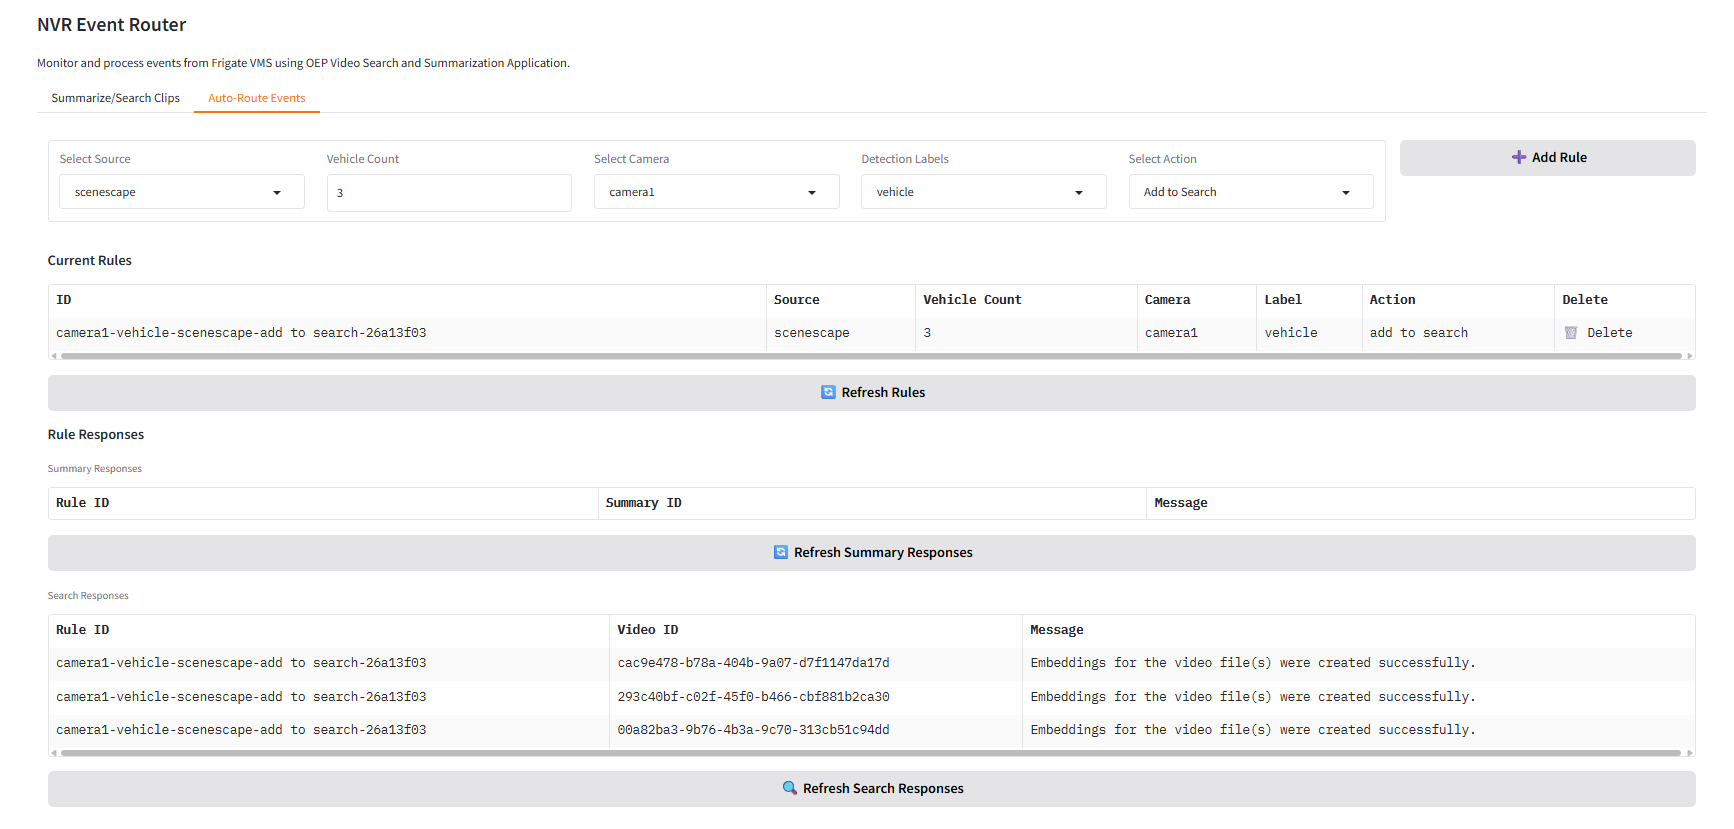
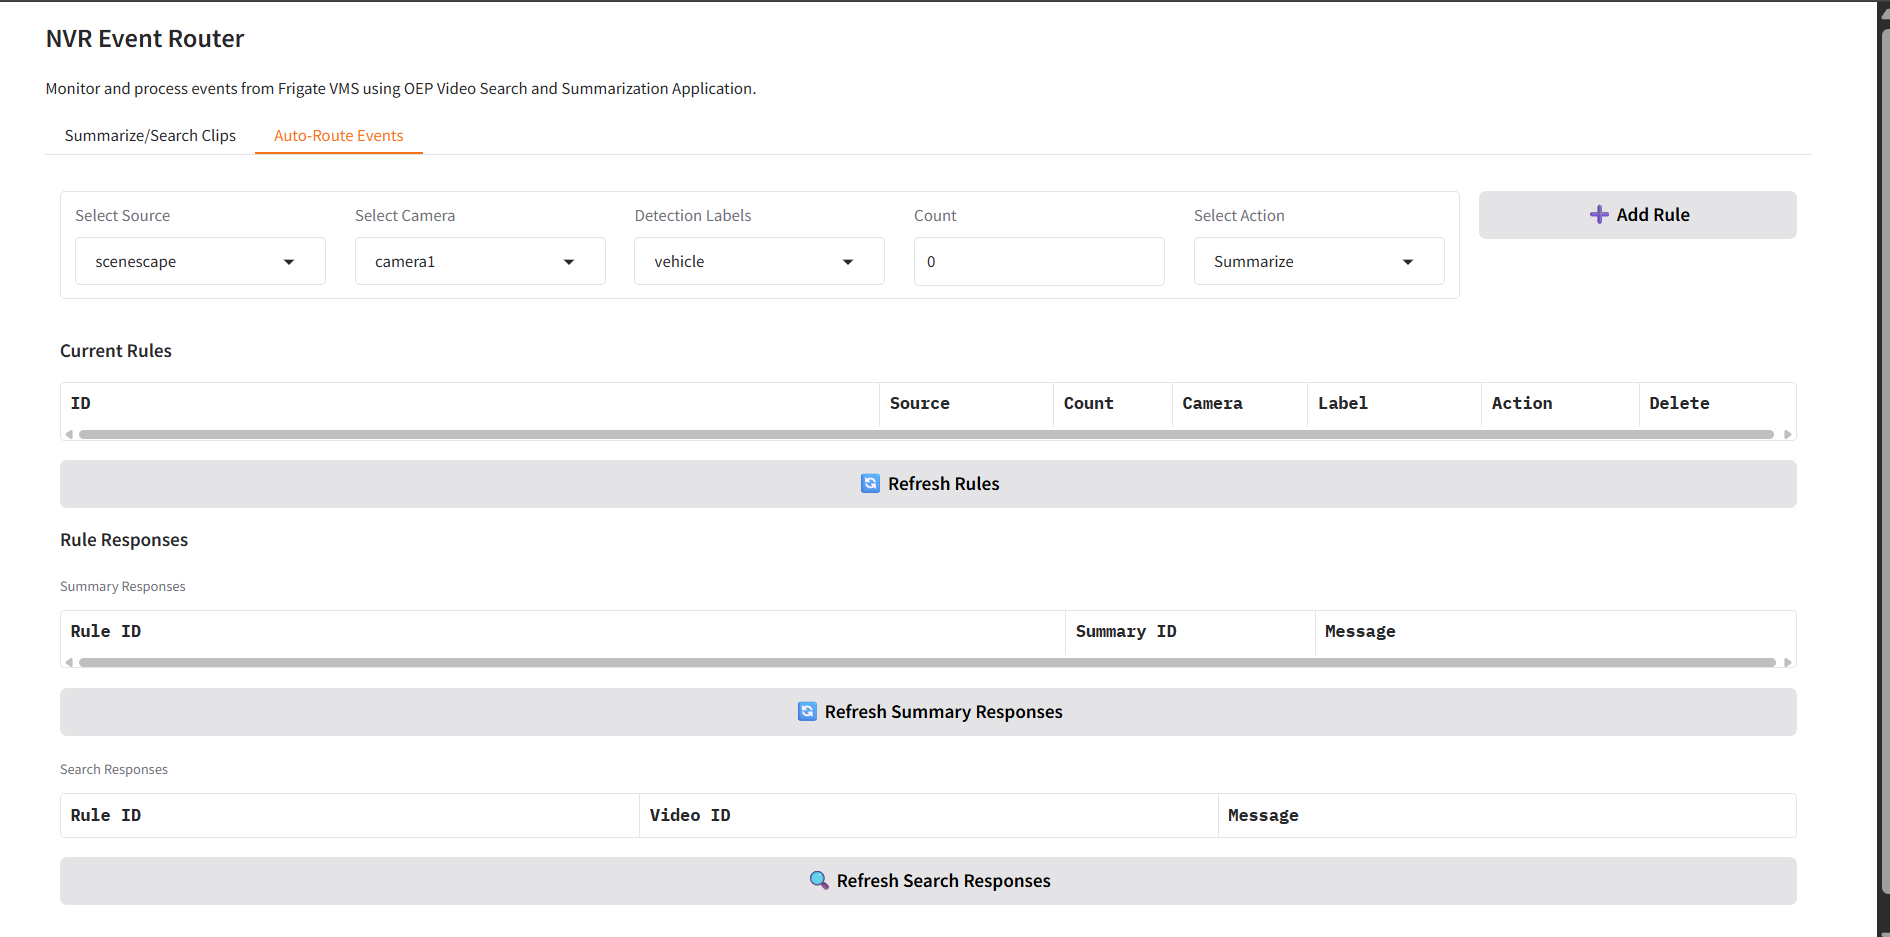
addition to check pedestrian count and doc changes

diff --git a/metro-ai-suite/smart-nvr/ui/interface/interface.py b/metro-ai-suite/smart-nvr/ui/interface/interface.py
@@ -552,37 +552,56 @@ def create_ui():
                         value="frigate",
                     )
 
-                    vehicle_count = gr.Number(
-                        label="Vehicle Count",
-                        value=0,
-                        precision=0,
-                        interactive=True,
-                        visible=False,  
-                    )
-
                     camera_dropdown = gr.Dropdown(
                         choices=camera_list,
                         value=camera_list[0] if camera_list else None,
                         label="Select Camera"
                     )
 
-                    def toggle_vehicle_count_visibility(source):
+                    if show_scenescape_source:
+                        # scenescape on detection label before the count
+                        label_filter = gr.Dropdown(
+                            choices=[],
+                            value=None,
+                            label="Detection Labels"
+                        )
+
+                        count = gr.Number(
+                            label="Count",
+                            value=0,
+                            precision=0,
+                            interactive=True,
+                            visible=False,  
+                        )
+                    else:
+                        # Original layout for frigate-only
+                        count = gr.Number(
+                            label="Count",
+                            value=0,
+                            precision=0,
+                            interactive=True,
+                            visible=False,  
+                        )
+
+                    def toggle_count_visibility(source):
                         if source == "scenescape":
                             return gr.update(visible=True)
                         else:
                             return gr.update(visible=False, value=0)
 
                     source_dropdown.change(
-                        fn=toggle_vehicle_count_visibility,
+                        fn=toggle_count_visibility,
                         inputs=[source_dropdown],
-                        outputs=[vehicle_count],
+                        outputs=[count],
                     )
 
-                    label_filter = gr.Dropdown(
-                        choices=[],
-                        value=None,
-                        label="Detection Labels"
-                    )
+                    if not show_scenescape_source:
+                        # Only create label_filter for frigate-only mode
+                        label_filter = gr.Dropdown(
+                            choices=[],
+                            value=None,
+                            label="Detection Labels"
+                        )
 
                     action_dropdown_auto = gr.Dropdown(
                         choices=["Summarize", "Add to Search"],
@@ -610,13 +629,13 @@ def create_ui():
                     add_rule_alert = gr.Textbox(label="Status", visible=False)
 
                 # 🔘 Callback to add rule and show alert
-                def add_rule_callback(camera, label, action, source, vehicle_count_value):
+                def add_rule_callback(camera, label, action, source, count_value):
                     resp = add_rule(
                         camera,
                         label,
                         action,
                         source,
-                        vehicle_count_value if source == "scenescape" else None,
+                        count_value if source == "scenescape" else None,
                     )
                     message = resp
                     return gr.update(value=message, visible=True)
@@ -628,16 +647,16 @@ def create_ui():
 
                 # 🚀 Show alert on rule add
                 # 🔘 Combined logic: show message, sleep, hide
-                def add_rule_with_auto_hide(source, vehicle_count_value, camera, label, action):
-                    vehicle_threshold = None
+                def add_rule_with_auto_hide(source, count_value, camera, label, action):
+                    threshold = None
                     if source == "scenescape":
                         try:
-                            vehicle_threshold = int(vehicle_count_value)
-                            if vehicle_threshold < 0:
+                            threshold = int(count_value)
+                            if threshold < 0:
                                 raise ValueError
                         except (TypeError, ValueError):
                             yield gr.update(
-                                value="❌ Vehicle count must be a non-negative integer.",
+                                value="❌ Count must be a non-negative integer.",
                                 visible=True,
                             )
                             time.sleep(3)
@@ -649,7 +668,7 @@ def create_ui():
                         label,
                         action,
                         source,
-                        vehicle_threshold,
+                        threshold,
                     )
                     message = (
                         resp.get("message") if isinstance(resp, dict) else str(resp)
@@ -666,7 +685,7 @@ def create_ui():
 
                 add_rule_btn.click(
                     fn=add_rule_with_auto_hide,
-                    inputs=[source_dropdown, vehicle_count, camera_dropdown, label_filter, action_dropdown_auto],
+                    inputs=[source_dropdown, count, camera_dropdown, label_filter, action_dropdown_auto],
                     outputs=[add_rule_alert],
                 )
 
@@ -683,7 +702,7 @@ def create_ui():
                 headers = ["ID", "Source"]
                 datatypes = ["str", "str"]
                 if show_scenescape_source:
-                    headers.append("Vehicle Count")
+                    headers.append("Count")
                     datatypes.append("str")
                 headers.extend(["Camera", "Label", "Action", "Delete"])
                 datatypes.extend(["str", "str", "str", "str"])
@@ -701,7 +720,7 @@ def create_ui():
                     for r in rules:
                         row = [r["id"], r.get("source", "frigate")]
                         if show_scenescape_source:
-                            row.append(str(r.get("vehicle_count", "-")))
+                            row.append(str(r.get("count", "-")))
                         row.extend([r.get("camera", "-"), r.get("label", "-"), r.get("action", "-"), "🗑 Delete"])
                         rows.append(row)
                     return rows

diff --git a/metro-ai-suite/smart-nvr/src/service/mqtt_listener.py b/metro-ai-suite/smart-nvr/src/service/mqtt_listener.py
@@ -29,7 +29,7 @@ def start_event_loop(loop):
 
 threading.Thread(target=start_event_loop, args=(event_loop,), daemon=True).start()
 
-def process_scenescape_objects(objects, scenescape_camera, start_time, end_time, num_vehicles, msg_topic):
+def process_scenescape_objects(objects, scenescape_camera, start_time, end_time, num_vehicles, num_pedestrians, msg_topic):
     """Process scenescape objects and trigger events for each object type."""
     for obj_type, obj_list in objects.items():
         if isinstance(obj_list, list) and obj_list:
@@ -39,6 +39,7 @@ def process_scenescape_objects(objects, scenescape_camera, start_time, end_time,
                 "start_time": start_time,
                 "end_time": end_time,
                 "num_vehicles": num_vehicles,
+                "num_pedestrians": num_pedestrians,
             }
             logger.info(f" Scenescape generated event: {event_data}")
 
@@ -121,29 +122,25 @@ def on_message(client, userdata, msg):
 
             objects = payload.get("objects", {})
             vehicle_list = []
+            pedestrian_list = []
             if isinstance(objects, dict):
                 vehicle_list = objects.get("vehicle", [])
+                pedestrian_list = objects.get("pedestrian", [])
             num_vehicles = len(vehicle_list)
-            if num_vehicles <= 0:
+            num_pedestrians = len(pedestrian_list)
+            if num_vehicles <= 0 and num_pedestrians <= 0:
                 return
             
             iso_timestamp = payload.get("timestamp", "")
             logger.info(f" Scenescape raw timestamp: {iso_timestamp}")
             formatted_timestamp = iso_to_frigate_timestamp(iso_timestamp)
             scenescape_camera = payload.get("id")
-            logger.info(f" Fetching events every {SCENESCAPE_THROTTLE_INTERVAL} seconds for Scenescape")
-            logger.info(f" Message received on topic : : {msg.topic} for vehicle count {num_vehicles}")
-            logger.info(
-                f" Scenescape message timestamp: {formatted_timestamp} |  Camera: {scenescape_camera} |  Number of vehicles: {num_vehicles} "
-            )
-
+            
             start_time = float(formatted_timestamp) - 15
             end_time = float(formatted_timestamp) - 5
 
-            logger.info(
-                f"Fetching scenescape clip for time {start_time} to {end_time}."
-            )
-            process_scenescape_objects(objects, scenescape_camera, start_time, end_time, num_vehicles, msg.topic)
+            logger.info(f" Scenescape event: {msg.topic} | Camera: {scenescape_camera} | Vehicles: {num_vehicles} | Pedestrians: {num_pedestrians} | Timestamp: {formatted_timestamp} | Clip: {start_time}-{end_time} | Throttle: {SCENESCAPE_THROTTLE_INTERVAL}s")
+            process_scenescape_objects(objects, scenescape_camera, start_time, end_time, num_vehicles, num_pedestrians, msg.topic)
 
         else:
             logger.warning(f" Unknown topic: {msg.topic}")

diff --git a/metro-ai-suite/smart-nvr/src/service/rule_engine.py b/metro-ai-suite/smart-nvr/src/service/rule_engine.py
@@ -13,7 +13,7 @@ async def process_event(event: dict, context: dict = None):
     Process incoming events against configured rules and dispatch actions for matches.
     
     Args:
-        event: Event data containing label, camera, timestamps, and optional vehicle count
+        event: Event data containing label, camera, timestamps, and optional count data
         context: Optional context with source information and topic details
     
     Returns:
@@ -45,17 +45,25 @@ async def process_event(event: dict, context: dict = None):
             )
             continue
 
-        threshold = rule.get("vehicle_count")
+        threshold = rule.get("count")
         if threshold is not None:
-            event_vehicle_count = event.get("num_vehicles")
-            if event_vehicle_count is None:
+            # count based on the event_label
+            event_label = event.get("label", "").lower()
+            if event_label == "pedestrian":
+                event_count = event.get("num_pedestrians")
+                count_type = "pedestrian"
+            else:
+                event_count = event.get("num_vehicles") 
+                count_type = "vehicle"
+                
+            if event_count is None:
                 logger.info(
-                    "Rule did not match: vehicle count missing on event when rule requires it."
+                    f"Rule did not match: {count_type} count missing on event when rule requires it."
                 )
                 continue
-            if event_vehicle_count < threshold:
+            if event_count < threshold:
                 logger.info(
-                    f"Rule did not match: vehicle count {event_vehicle_count} below threshold {threshold}."
+                    f"Rule did not match: {count_type} count {event_count} below threshold {threshold}."
                 )
                 continue
 

diff --git a/metro-ai-suite/smart-nvr/ui/services/api_client.py b/metro-ai-suite/smart-nvr/ui/services/api_client.py
@@ -37,16 +37,16 @@ def add_rule(
     label: str,
     action: str,
     source: Optional[str] = None,
-    vehicle_count: Optional[int] = None,
+    count: Optional[int] = None,
 ) -> Dict:
     # Normalize inputs
     normalized_action = action.lower()
     normalized_source = (source or "frigate").lower()
 
-    # Create a consistent rule ID based on camera, label, source, action, and vehicle count
+    # Create a consistent rule ID based on camera, label, source, action, and count
     rule_content = f"{camera}-{label}-{normalized_source}-{normalized_action}"
-    if vehicle_count is not None:
-        rule_content += f"-{vehicle_count}"
+    if count is not None:
+        rule_content += f"-{count}"
 
     hash = hashlib.md5(rule_content.encode(), usedforsecurity=False).hexdigest()[:8]  # 8-char hash
     rule_id = f"{camera}-{label}-{normalized_source}-{normalized_action}-{hash}"
@@ -71,8 +71,8 @@ def add_rule(
         "source": normalized_source,
     }
 
-    if vehicle_count is not None:
-        payload["vehicle_count"] = vehicle_count
+    if count is not None:
+        payload["count"] = count
 
     try:
         response = requests.post(f"{API_BASE_URL}/rules/", json=payload)

diff --git a/metro-ai-suite/smart-nvr/src/api/router.py b/metro-ai-suite/smart-nvr/src/api/router.py
@@ -103,7 +103,7 @@ class Rule(BaseModel):
     action: str
     camera: str | None = None
     source: str | None = None
-    vehicle_count: int | None = None
+    count: int | None = None
 
 
 @router.post("/rules/")

diff --git a/metro-ai-suite/smart-nvr/docs/user-guide/scenescape-integration.md b/metro-ai-suite/smart-nvr/docs/user-guide/scenescape-integration.md
@@ -5,9 +5,9 @@ This guide covers the integration of Intel Scenescape with Smart NVR for enhance
 ## Overview
 
 Smart NVR system integrates with Intel Scenescape to enable:
-- Real-time vehicle counting and tracking
+- Real-time object counting and tracking (vehicles, pedestrians)
 - Traffic flow analysis
-- Automated event routing based on vehicle thresholds
+- Automated event routing based on count thresholds
 - Enhanced surveillance for smart intersection management
 
 ## Prerequisites
@@ -30,6 +30,7 @@ export NVR_SCENESCAPE=true
 # MQTT Configuration (from browser.auth JSON)
 export SCENESCAPE_MQTT_USER="<user>"
 export SCENESCAPE_MQTT_PASSWORD="<password>"
+export SCENESCAPE_THROTTLE_INTERVAL=2.0  # Optional: throttle interval in seconds
 ```
 
 ### Step 3: Start Smart NVR
@@ -61,10 +62,10 @@ docker logs nvr-event-router -f
 
 When Scenescape is enabled (`NVR_SCENESCAPE=true`) and scenescape source is selected:
 - Source dropdown shows both **"frigate"** and **"scenescape"** options
-- **Vehicle Count** field becomes visible and editable
-- Users can set minimum vehicle threshold for rule triggering (e.g., 5, 10, 15)
-- Rules table includes "Vehicle Count" column for tracking thresholds
-- Vehicle count validation ensures non-negative integers only
+- **Count** field becomes visible and editable
+- Users can set minimum count threshold for rule triggering (e.g., 5, 10, 15)
+- Rules table includes "Count" column for tracking thresholds
+- Count validation ensures non-negative integers only
 
 ### With Scenescape Enabled but Frigate Source Selected
 
@@ -72,9 +73,9 @@ When Scenescape is enabled (`NVR_SCENESCAPE=true`) and scenescape source is sele
 
 When Scenescape is enabled but frigate source is selected:
 - Source dropdown still shows both **"frigate"** and **"scenescape"** options  
-- **Vehicle Count** field is automatically hidden (not applicable for frigate)
+- **Count** field is automatically hidden (not applicable for frigate)
 - Standard frigate rule configuration with detection labels
-- Rules table shows "Vehicle Count" column but displays "-" for frigate rules
+- Rules table shows "Count" column but displays "-" for frigate rules
 - Full frigate functionality remains available
 
 ### With Scenescape Completely Disabled (`NVR_SCENESCAPE=false`)
@@ -83,8 +84,8 @@ When Scenescape is enabled but frigate source is selected:
 
 When Scenescape is disabled in environment variables:
 - Source dropdown shows **only** "frigate" option
-- Vehicle Count field is never visible
-- Rules table **excludes** the "Vehicle Count" column entirely  
+- Count field is never visible
+- Rules table **excludes** the "Count" column entirely  
 - Pure frigate-only functionality and interface
 - Scenescape MQTT client will not start
 
@@ -95,15 +96,15 @@ When Scenescape is disabled in environment variables:
 **Steps (both sources):**
 1. Navigate to **Auto-Route Events** tab
 2. **Select Source:** "scenescape" or "frigate"
-3. **Set Vehicle Count:** (Scenescape only) Define minimum threshold (e.g., 5)
+3. **Set Count:** (Scenescape only) Define minimum threshold (e.g., 5)
 4. **Select Camera:** Choose target camera 
 5. **Choose Detection Label:** Select object type
 6. **Select Action:** "Summarize" or "Add to Search"
 7. **Click Add Rule**
 
 **Key Differences:**
-- **Scenescape:** Vehicle Count field visible when selected
-- **Frigate:** Vehicle Count field hidden
+- **Scenescape:** Count field visible when selected
+- **Frigate:** Count field hidden
 
 ### Rule Behavior Examples
 
@@ -111,11 +112,11 @@ When Scenescape is disabled in environment variables:
 ```
 Source: scenescape
 Camera: camera1
-Vehicle Count: 5
+Count: 5
 Label: vehicle
 Action: Summarize
 ```
-*Triggers video summarization when 5+ vehicles detected in backyard camera*
+*Triggers video summarization when 5+ vehicles detected in camera1*
 
 **Frigate Rule Example:**
 ```
